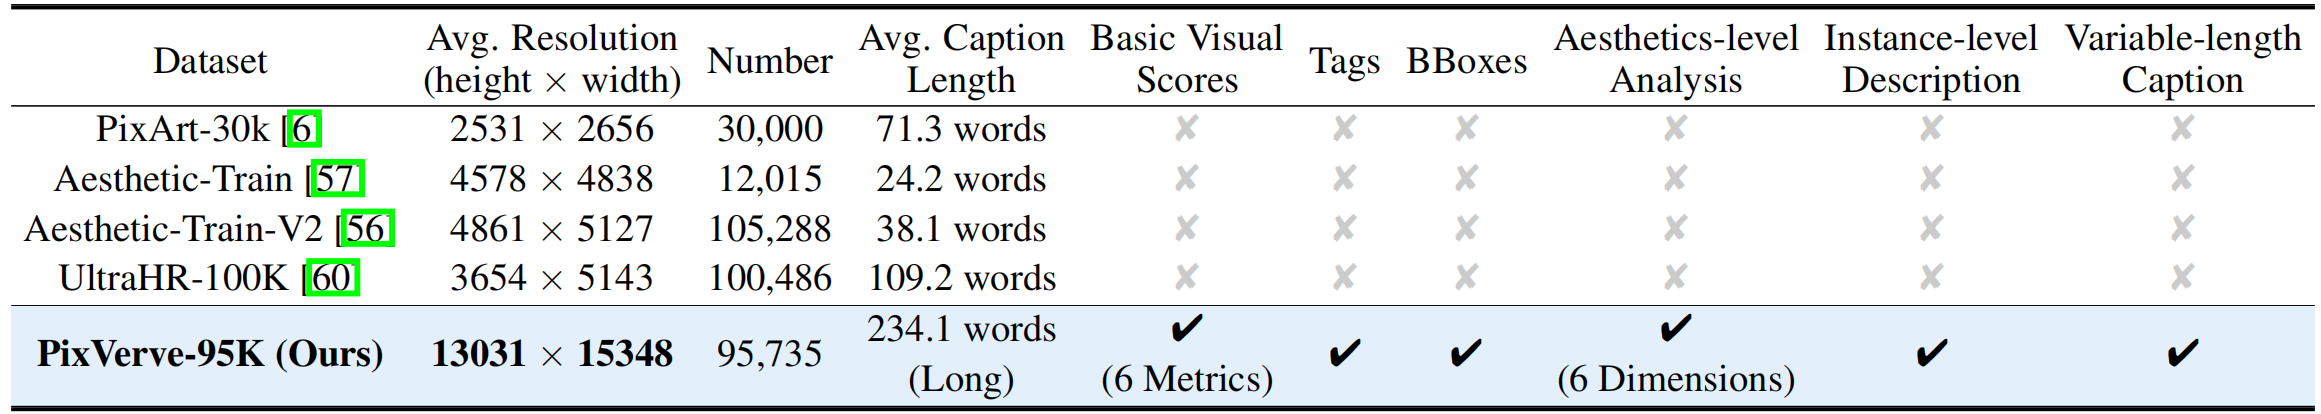
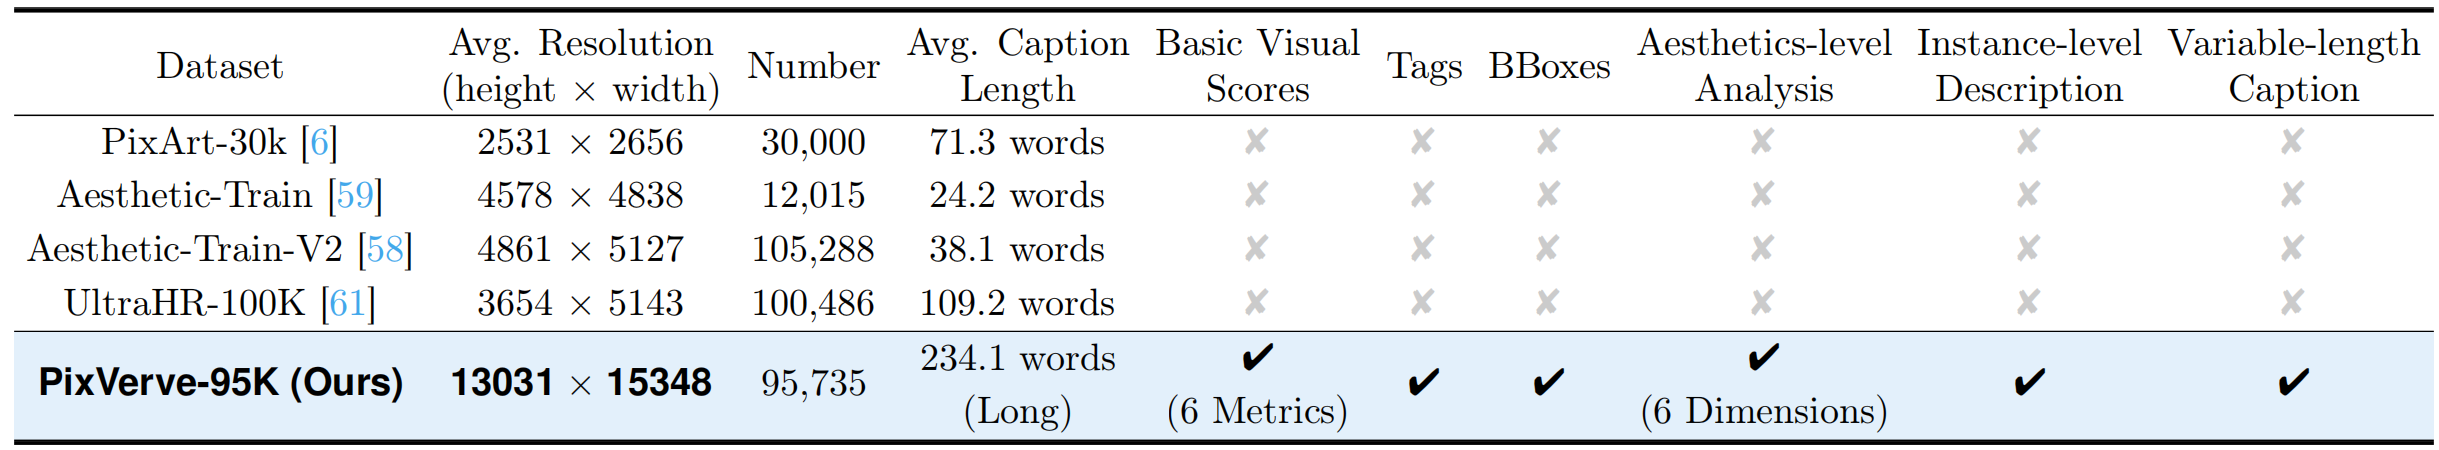
Update PixVerve project page

diff --git a/projects/PixVerve/index.html b/projects/PixVerve/index.html
@@ -322,7 +322,7 @@
             <strong>(1)</strong> We introduce <strong>PixVerve-95K</strong>, the first large-scale, high-quality T2I dataset to push image resolution to 100MP. With a five-stage, automated data pipeline, we curate 95,735 100MP images with fine-grained annotations (5 types of metadata and 2 comprehensive captions), directly supporting the training or fine-tuning of T2I models at high resolutions.
           </p>
           <p style="margin-bottom: 0.2rem;">
-            <strong>(2)</strong> Based on our proposed PixVerve-95K, we first explore the attempt of generating 100MP images natively. Specifically, we extend existing T2I foundation models (including both latent diffusion models and pixel diffusion models) with three distinct training schemes, providing valuable insights and paving the way for future breakthroughs.
+            <strong>(2)</strong> Based on our proposed PixVerve-95K, we first <strong>explore the attempt of generating 100MP images natively</strong>. Specifically, we extend existing T2I foundation models (including both latent diffusion models and pixel diffusion models) with three distinct training schemes, providing valuable insights and paving the way for future breakthroughs.
           </p>
           <p style="margin-bottom: 0.2rem;">
             <strong>(3)</strong> To address the limitations of conventional T2I benchmarks, we construct <strong>PixVerve-Bench</strong>, a systematic, hierarchical evaluation protocol incorporating both traditional metrics and assessments based on Multimodal Large Language Models (MLLMs).
@@ -572,12 +572,13 @@
 <section class="section" id="BibTeX">
   <div class="container is-max-desktop content">
     <h2 class="title">BibTeX</h2>
-    <pre><code>@article{park2021nerfies,
-  author    = {Park, Keunhong and Sinha, Utkarsh and Barron, Jonathan T. and Bouaziz, Sofien and Goldman, Dan B and Seitz, Steven M. and Martin-Brualla, Ricardo},
-  title     = {Nerfies: Deformable Neural Radiance Fields},
-  journal   = {ICCV},
-  year      = {2021},
-}</code></pre>
+    <pre><code>@article{pixverve,
+  title={PixVerve: Advancing Native UHR Image Generation to 100MP with A Large-Scale High-Quality Dataset},
+  author={Chen, Haojun and He, Haoyang and Xu, Chengming and He, Qingdong and Zhu, Junwei and Wang, Yabiao and Xue, Zhucun and Zeng, Xianfang and Chen, Zhennan and Hu, Xiaobin and Zhao, Hao and Liu, Yong and Zhang, Jiangning and Tao, Dacheng},
+  journal={arXiv preprint},
+  year={2026}
+}
+</code></pre>
   </div>
 </section>
 